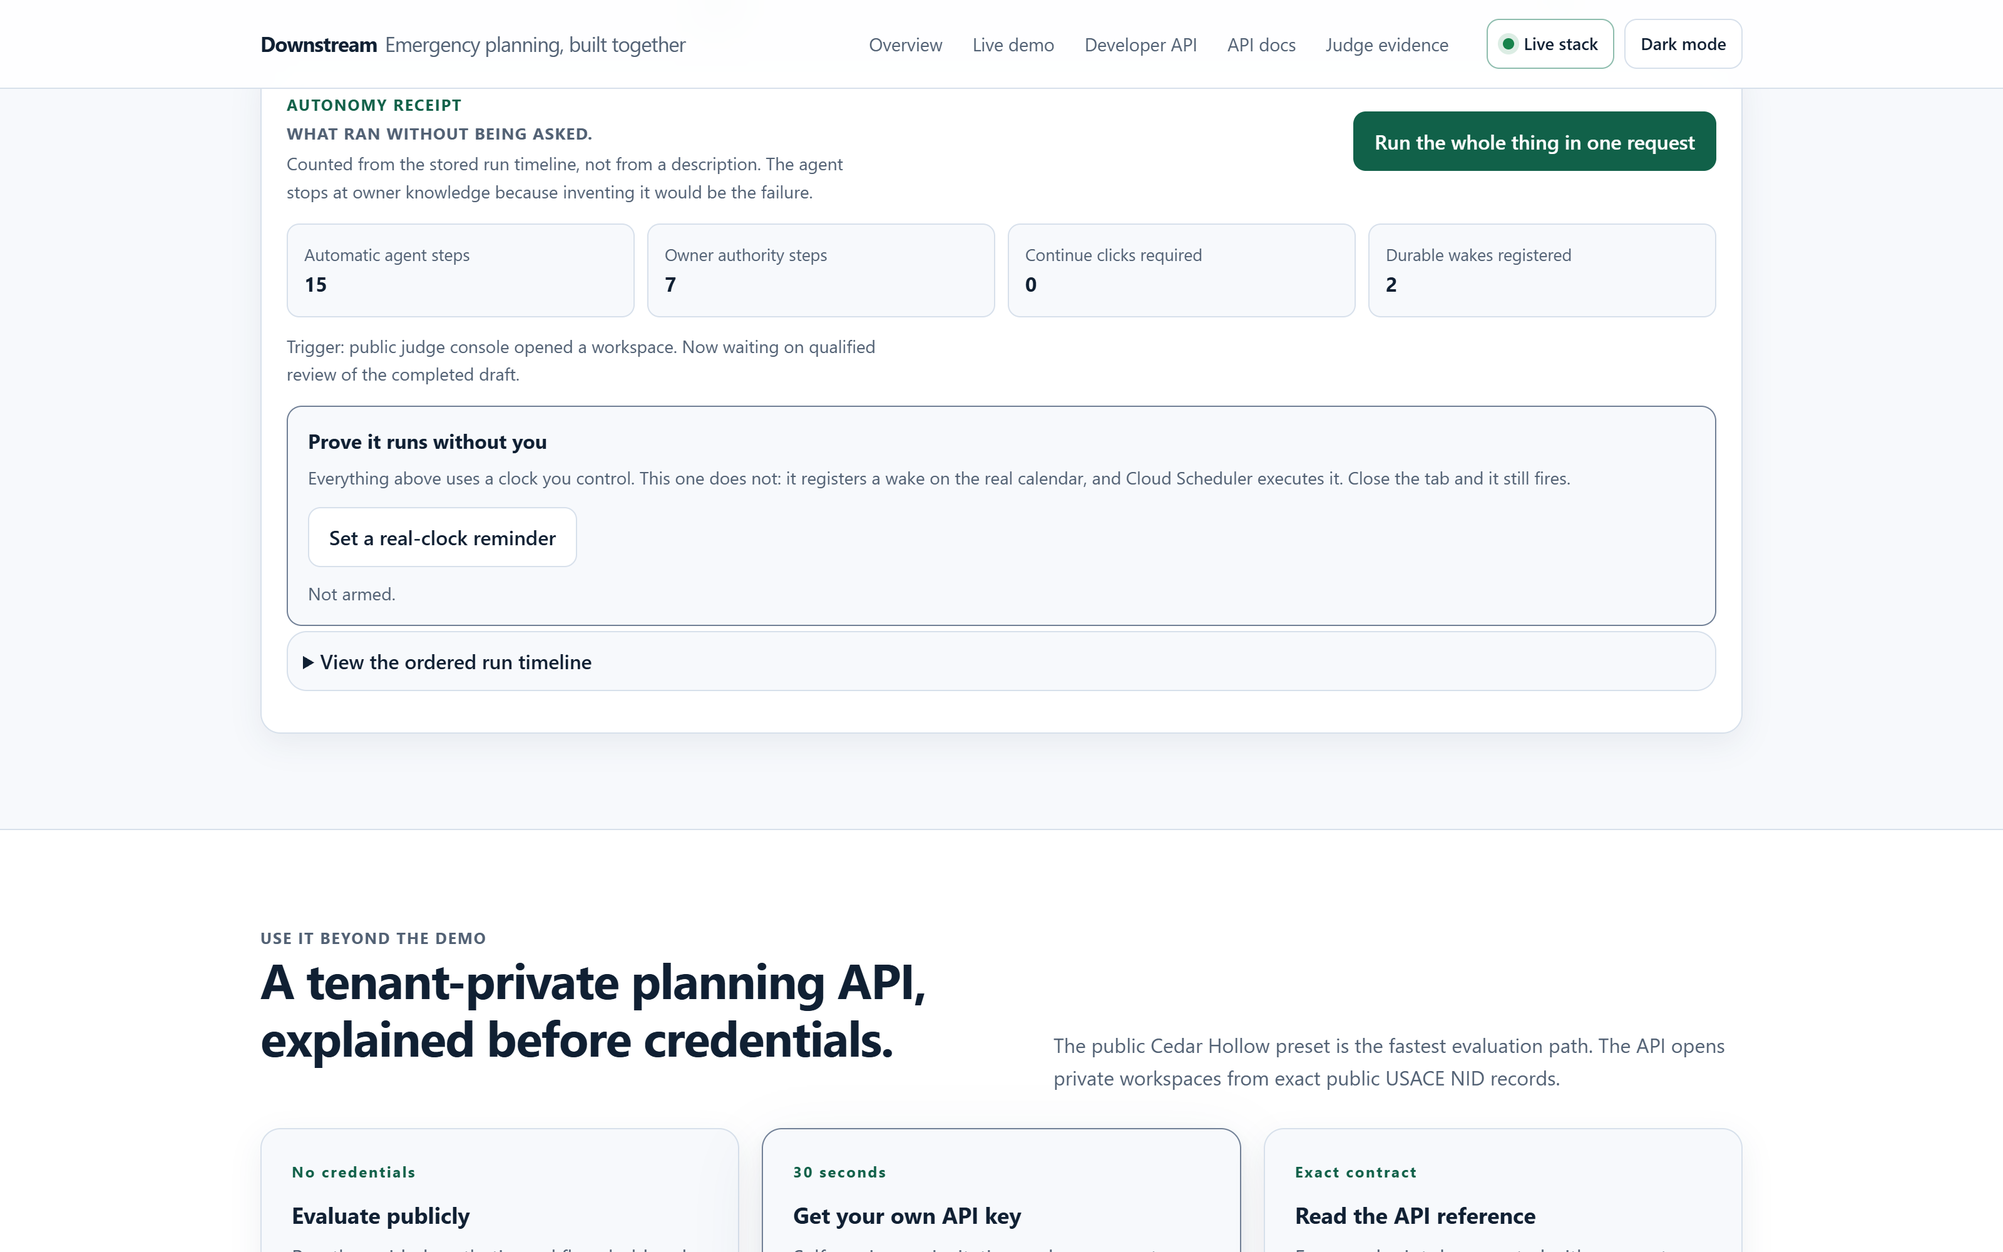
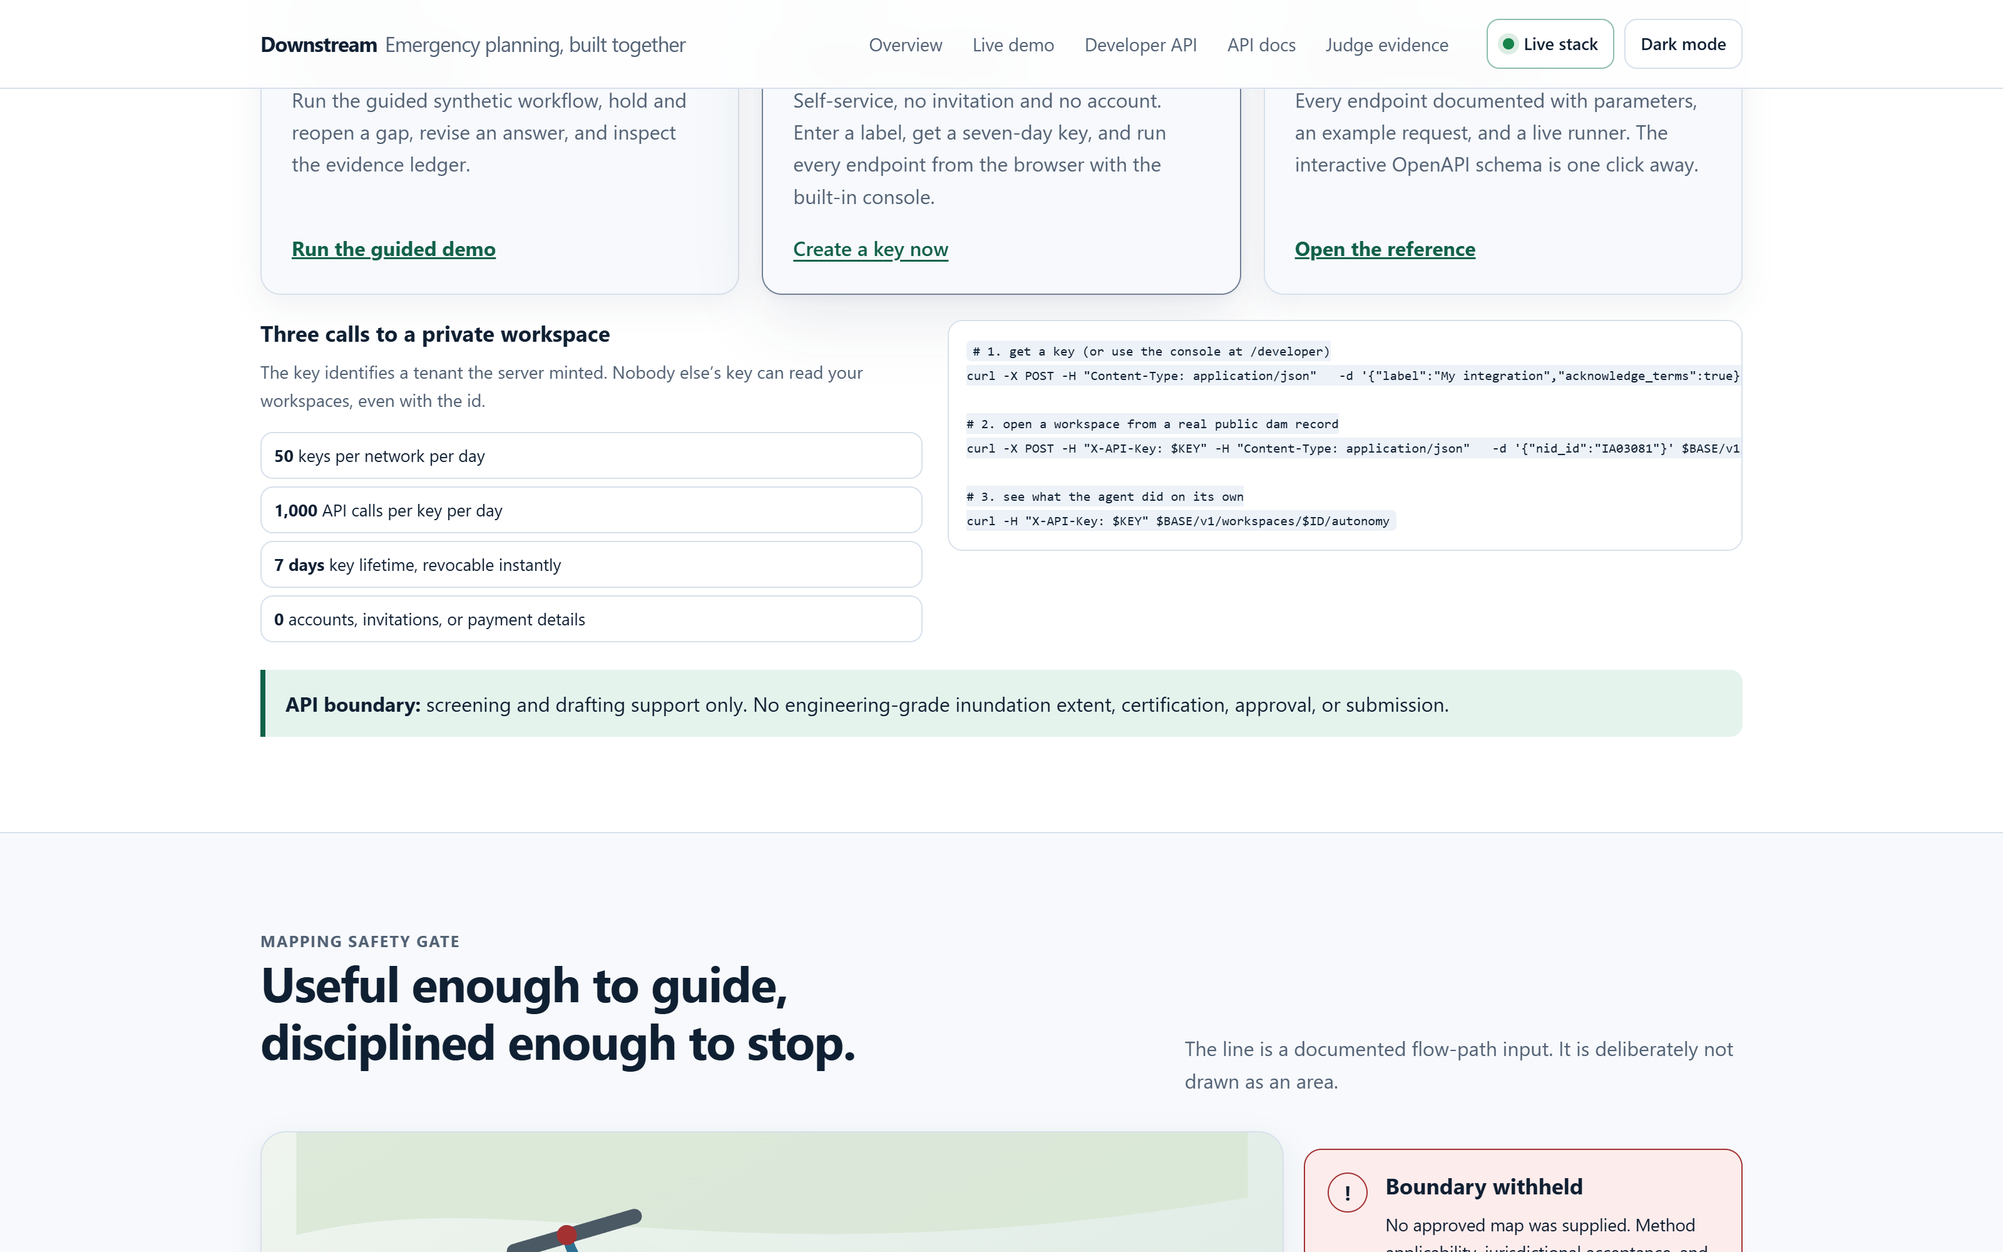
Stop showing a cold visitor six panels that report nothing
The console on first load was three columns of scaffolding and a seven-tile
profile strip and an autonomy receipt, and every one of them said some version
of "nothing yet": no session, sections appear as facts arrive, not learned yet,
0, 0, 0, 0. Six panels of furniture holding no information, and beneath them
two disabled buttons that looked like dead interface.

Worse, the strongest thing the product does was the third call to action and
the furthest down the page. A judge arriving at the URL cold -- which is how
they will arrive, not by following a script -- had to scroll past all of that
to find "run the whole thing in one request".

There is now one invitation that says what the run actually does, with that run
as the primary action, offered in the console header and in the card itself.
The scaffolding appears when there is something to put in it.

Includes a bug the screenshot caught and the check did not: `[hidden]` only
carries display:none from the user-agent stylesheet, so `.profile-grid {
display: grid }` beat it and the panel stayed visible while the DOM property
read true the whole time. Verifying the property rather than the rendering is
precisely how that survived, so the check now measures computed display and a
test pins the override.

diff --git a/app/web/downstream.html b/app/web/downstream.html
@@ -44,16 +44,23 @@
 
 
 
-    <section id="workspace"><div class="wrap"><div class="console-intro"><div><p class="eyebrow">Interactive judge preset</p><h2>Build the draft with Cedar Hollow.</h2><p>A synthetic dam keeps the workflow testable without making claims about a real owner.</p></div><div class="workspace-actions"><button class="btn-primary" data-action id="start-demo" type="button">Start clean preset</button><a class="btn" href="/?guided=1#workspace">Start guided judge tour</a></div></div>
-      <p class="demo-banner">Synthetic demonstration data. The public NID query below is live, but real records are never treated as evidence of noncompliance.</p><div id="app-status" class="app-status neutral" role="status" aria-live="polite" aria-atomic="true">Choose a clean workspace or the guided judge tour to begin.</div>
-      <div class="console-shell" style="margin-top:16px"><div class="partner-shell">
+    <section id="workspace"><div class="wrap"><div class="console-intro"><div><p class="eyebrow">Interactive judge preset</p><h2>Build the draft with Cedar Hollow.</h2><p>A synthetic dam keeps the workflow testable without making claims about a real owner.</p></div><div class="workspace-actions"><button class="btn-primary" data-action id="run-top" type="button">Run the whole thing in one request</button><button class="btn" data-action id="start-demo" type="button">Answer the questions myself</button><a class="btn" href="/?guided=1#workspace">Guided judge tour</a></div></div>
+      <p class="demo-banner">Synthetic demonstration data. The public NID query below is live, but real records are never treated as evidence of noncompliance.</p><div id="app-status" class="app-status neutral is-idle" role="status" aria-live="polite" aria-atomic="true"></div>
+      <div class="console-empty" id="console-empty">
+        <p class="eyebrow">Nothing has run yet</p>
+        <h3>One request does fifteen things.</h3>
+        <p>It resolves the dam record, reads the 1958 drawing with Gemini, checks every fact against a quote it can point to, derives the conflict between two sources, drafts the sections it has evidence for, refuses the map it cannot justify, and schedules its own follow-ups. Then it stops and asks you the six things it is not allowed to guess.</p>
+        <div class="btn-row"><button class="btn-primary" data-action id="run-empty" type="button">Run it</button><button class="btn" data-action id="start-empty" type="button">Or answer the questions yourself</button></div>
+      </div>
+
+      <div class="console-shell" id="console-shell" hidden style="margin-top:16px"><div class="partner-shell">
         <aside class="pane"><h3>Plan progress</h3><p class="small muted" id="progress-copy">Start the preset to create a durable workspace.</p><ol class="progress-list" id="progress-list"></ol><h3 class="subhead">Context meter</h3><div id="context-meter" class="muted small">No session yet.</div><div id="workspace-identity" class="workspace-identity" hidden><h3 class="subhead">Saved workspace</h3><code id="workspace-code"></code><p class="small muted">Restores this workspace after a refresh.</p><div class="workspace-link-row"><a id="resume-url" href="#workspace">Open resume link</a><button id="copy-resume" type="button">Copy</button></div></div></aside>
         <section class="pane" style="padding:0;border:0;box-shadow:none;background:transparent"><article class="question-card" id="question-card"><span class="eyebrow">Partner waiting</span><h3>Start a clean preset.</h3><p>I will resolve three drawing facts first, turn the source conflict into a targeted question, and ask only what the fixture cannot answer.</p></article><article class="revision-card" id="revision-card"><span class="eyebrow">Correction loop</span><h3>Your corrections stay attributable.</h3><p class="muted small">After the first answer, revise it here. Downstream keeps both versions and updates the draft.</p></article></section>
         <aside class="pane"><h3>Reviewable draft</h3><div class="plan-stack" id="plan-stack"><p class="muted small">Sections appear as owner facts arrive.</p></div><div class="btn-row"><button id="accept-plan" data-action type="button" disabled>Accept style</button><button id="less-detail" data-action type="button" disabled>Use concise summaries</button></div></aside>
       </div></div>
-      <div class="profile-grid" id="profile-grid" style="margin-top:14px"><div class="profile-item"><small>Reading level</small><b>Not learned yet</b></div><div class="profile-item"><small>Detail style</small><b>Not learned yet</b></div><div class="profile-item"><small>Vocabulary</small><b>No preferences yet</b></div><div class="profile-item"><small>Sessions remembered</small><b>0</b></div><div class="profile-item"><small>Feedback events</small><b>0</b></div><div class="profile-item"><small>Answer revisions</small><b>0</b></div><div class="profile-item"><small>Source conflicts surfaced</small><b>1</b></div></div>
+      <div class="profile-grid" id="profile-grid" hidden style="margin-top:14px"><div class="profile-item"><small>Reading level</small><b>Not learned yet</b></div><div class="profile-item"><small>Detail style</small><b>Not learned yet</b></div><div class="profile-item"><small>Vocabulary</small><b>No preferences yet</b></div><div class="profile-item"><small>Sessions remembered</small><b>0</b></div><div class="profile-item"><small>Feedback events</small><b>0</b></div><div class="profile-item"><small>Answer revisions</small><b>0</b></div><div class="profile-item"><small>Source conflicts surfaced</small><b>1</b></div></div>
 
-      <article class="pane autonomy-pane" id="autonomy-pane" style="margin-top:14px">
+      <article class="pane autonomy-pane" id="autonomy-pane" hidden style="margin-top:14px">
         <div class="autonomy-head">
           <div>
             <span class="eyebrow">Autonomy receipt</span>

diff --git a/app/web/downstream-judges-v2.html b/app/web/downstream-judges-v2.html
@@ -15,7 +15,7 @@
   <main id="main">
     <section class="judge-hero"><div class="wrap"><p class="eyebrow">Evaluation path</p><h1>An autonomous partner you can verify in one request.</h1><p class="lede">Press <b>Run the whole thing in one request</b> on the home page, or <code>POST /downstream/demo/run</code>. The agent opens a run, reads the drawing, grounds the facts, derives the source conflict, drafts every section it has evidence for, applies the mapping gate, schedules two durable wakes and fires them &mdash; then hands back a receipt counted from stored state. Typical result: <b>15 automatic steps, 0 continue clicks</b>.</p><div class="evaluator-actions"><a href="/">Run it in one request</a><a href="/?guided=1#workspace">Drive it by hand instead</a><a href="/evidence">Open evidence dashboard</a><a href="/downstream/proof">Open raw proof</a><a href="https://github.com/usv240/downstream">Inspect repository</a></div><ol class="judge-steps"><li><b>One request.</b> The whole workflow runs server-side and returns the autonomy receipt, the draft, the evidence ledger and the measured context.</li><li><b>Read the timeline.</b> Every step names the actor that performed it: agent, owner authority, or external event. The counts are derived from it, not asserted.</li><li><b>Check where it stopped.</b> It pauses only on owner knowledge, which is the one input it is not permitted to invent.</li><li><b>Watch it work unattended.</b> Durable wakes reopen held questions and follow up on a stalled draft. Cloud Scheduler calls <code>/internal/scan-due</code> every fifteen minutes.</li><li><b>Then drive it by hand.</b> Ask for simpler language, hold and reopen a gap, save a correction, and inspect both answer versions.</li><li><b>Confirm the boundary held.</b> No inundation extent, no certification, no submission &mdash; however complete the run.</li></ol></div></section>
 
-    <section><div class="wrap"><div class="judge-metrics"><div class="judge-metric"><b>92,606</b><span>USACE records measured through the public service</span></div><div class="judge-metric"><b>15</b><span>automatic agent steps per run, 0 continue clicks</span></div><div class="judge-metric"><b>348</b><span>standalone automated tests</span></div><div class="judge-metric"><b>63/63</b><span>executable end-to-end checks</span></div><div class="judge-metric"><b>2</b><span>durable wakes registered and fired per run</span></div><div class="judge-metric"><b>0</b><span>unvalidated boundaries generated</span></div></div>
+    <section><div class="wrap"><div class="judge-metrics"><div class="judge-metric"><b>92,606</b><span>USACE records measured through the public service</span></div><div class="judge-metric"><b>15</b><span>automatic agent steps per run, 0 continue clicks</span></div><div class="judge-metric"><b>352</b><span>standalone automated tests</span></div><div class="judge-metric"><b>63/63</b><span>executable end-to-end checks</span></div><div class="judge-metric"><b>2</b><span>durable wakes registered and fired per run</span></div><div class="judge-metric"><b>0</b><span>unvalidated boundaries generated</span></div></div>
       <div class="architecture-map"><div class="arch-node"><small>Public and synthetic inputs</small><strong>USACE NID, drawing facts, owner knowledge</strong><span>Every fact keeps its provenance, status, and conflict state.</span></div><div class="arch-arrow" aria-hidden="true">&rsaquo;</div><div class="arch-node accent"><small>Google Cloud agent loop</small><strong>Cloud Run, Firestore, Cloud Scheduler, Vertex AI</strong><span>Resolve, ground, decide, compose, schedule, wake, verify.</span></div><div class="arch-arrow" aria-hidden="true">&rsaquo;</div><div class="arch-node"><small>Reviewable result</small><strong>Cited EAP draft, evidence ledger, safe stop</strong><span>Never certified, submitted, or represented as engineering analysis.</span></div></div>
     </div></section>
 

diff --git a/app/web/downstream-v2.js b/app/web/downstream-v2.js
@@ -44,7 +44,10 @@ function text(value) {
 
 function setStatus(message, tone = "neutral") {
   const box = $("#app-status");
-  box.className = "app-status " + tone;
+  // Collapsed until there is something to report. It stays in the DOM so the live region is
+  // present before it is updated, which is what screen readers need, but an empty status bar
+  // repeating the invitation directly beneath it is just another panel saying nothing yet.
+  box.className = "app-status " + tone + (message ? "" : " is-idle");
   box.textContent = message;
 }
 
@@ -365,7 +368,20 @@ function renderAutonomy(workspace) {
     .join("");
 }
 
+function revealConsole() {
+  // The scaffolding is evidence of a run. Before there is one it was six panels each saying
+  // "nothing yet", which is a lot of furniture for no information and buried the one action
+  // worth taking.
+  const empty = $("#console-empty");
+  if (empty) empty.hidden = true;
+  ["#console-shell", "#profile-grid", "#autonomy-pane"].forEach((selector) => {
+    const node = $(selector);
+    if (node) node.hidden = false;
+  });
+}
+
 function render(workspace, options = {}) {
+  revealConsole();
   state.workspace = workspace;
   syncWorkspaceIdentity(workspace);
   renderProgress(workspace);
@@ -609,6 +625,10 @@ async function armLiveProof() {
 $("#arm-live-proof").addEventListener("click", armLiveProof);
 $("#start-demo").addEventListener("click", start);
 $("#run-whole-thing").addEventListener("click", runWholeThing);
+// The same two actions, offered where a cold visitor actually looks: the console header and the
+// empty state itself, rather than only in a panel below the fold.
+["#run-top", "#run-empty"].forEach((s) => $(s)?.addEventListener("click", runWholeThing));
+$("#start-empty")?.addEventListener("click", start);
 $("#load-nid").addEventListener("click", loadNid);
 $("#accept-plan").addEventListener("click", () => feedback("accept"));
 $("#less-detail").addEventListener("click", () => feedback("not_right", "Too much detail"));
@@ -630,5 +650,5 @@ if (requestedWorkspace) {
 } else if (state.guided) {
   start();
 } else {
-  setStatus("Choose a clean workspace or the guided judge tour to begin.", "neutral");
+  setStatus("");
 }

diff --git a/app/web/downstream-v2.css b/app/web/downstream-v2.css
@@ -513,3 +513,27 @@
 #live-proof-status { margin: 10px 0 0; }
 #live-proof-status.armed { color: var(--warn); }
 #live-proof-status.fired { color: var(--ok); font-weight: 600; }
+
+/* ---------------------------------------------------------------- console empty state
+   Six panels each reporting that nothing had happened yet is a lot of furniture for no
+   information, and it pushed the one action worth taking below the fold. One invitation
+   instead, and the scaffolding appears when there is something to put in it. */
+.console-empty {
+  margin-top: 16px; padding: 30px 32px;
+  border: 1px solid var(--border-strong); border-radius: var(--radius);
+  background: var(--surface); box-shadow: var(--shadow-soft);
+}
+.console-empty h3 { font-size: 1.5rem; margin: 4px 0 10px; letter-spacing: -.02em; }
+.console-empty p { max-width: 76ch; }
+.console-empty .btn-row { margin-bottom: 0; }
+@media (max-width: 640px) { .console-empty { padding: 22px 20px; } }
+
+/* The `hidden` attribute only carries `display: none` from the user-agent stylesheet, so any
+   author rule that sets display -- `.profile-grid { display: grid }`, `.pane { display: block }`
+   -- silently wins and the element stays on screen. The DOM property reads true the whole time,
+   which is exactly how this got missed. */
+[hidden] { display: none !important; }
+
+/* An empty status bar restating the invitation below it is one more panel reporting nothing.
+   Collapsed rather than removed, so the live region exists before it is first updated. */
+.app-status.is-idle { display: none; }

diff --git a/app/tests/test_ui_adaptation.py b/app/tests/test_ui_adaptation.py
@@ -183,3 +183,38 @@ def test_the_correction_example_carries_an_identifier_so_the_boundary_is_visible
     assert "PHONE" in shielded["shapes"]
     assert "406-555-0142" not in shielded["text"]
     assert "PHONE_1" in shielded["text"]
+
+
+def test_the_hidden_attribute_actually_hides():
+    """`[hidden]` only carries display:none from the user-agent sheet, so `.profile-grid`
+    setting `display: grid` beat it and the panel stayed on screen while the DOM property read
+    true. Checking the property rather than the rendering is how that survived."""
+    css = (WEB / "downstream-v2.css").read_text(encoding="utf-8")
+    assert "[hidden] { display: none !important; }" in css
+
+
+def test_a_cold_visitor_is_not_shown_six_empty_panels():
+    """The scaffolding is evidence of a run. Before there is one it reported "nothing yet" in six
+    places and pushed the one action worth taking below the fold."""
+    html = (WEB / "downstream.html").read_text(encoding="utf-8")
+    for hidden in ('id="console-shell" hidden', 'id="profile-grid" hidden', 'id="autonomy-pane" hidden'):
+        assert hidden in html, hidden
+    assert 'id="console-empty"' in html
+
+
+def test_the_strongest_action_is_the_first_one_offered():
+    html = (WEB / "downstream.html").read_text(encoding="utf-8")
+    actions = html[html.index('class="workspace-actions"'):]
+    actions = actions[: actions.index("</div>")]
+    assert "Run the whole thing in one request" in actions
+    assert actions.index("Run the whole thing") < actions.index("Answer the questions myself")
+    assert 'class="btn-primary"' in actions.split("Run the whole thing")[0][-120:]
+
+
+def test_every_entry_point_into_a_run_reveals_the_console():
+    js = (WEB / "downstream-v2.js").read_text(encoding="utf-8")
+    assert "function revealConsole()" in js
+    # render() is the single funnel every path goes through.
+    assert js.index("revealConsole();") > js.index("function render(workspace")
+    for control in ("#run-top", "#run-empty", "#start-empty"):
+        assert control in js, control

diff --git a/docs/gallery/README.md b/docs/gallery/README.md
@@ -11,6 +11,7 @@ mock-up.
 | `03-autonomy-timeline.png` | The stored run timeline the receipt is counted from, each step attributed |
 | `04-judge-evidence.png` | The judge page: measured gates and the claim boundaries |
 | `05-developer-console.png` | Self-service key issuance and the in-browser API console |
+| `06-console-empty.png` | What a cold visitor sees: one invitation, not six empty panels |
 
 The rules say judges may choose to score on the text description, images and video alone. These
 exist so that a repository nobody runs still shows the product working.

diff --git a/README.md b/README.md
@@ -211,7 +211,7 @@ The last one runs against a URL, so it works equally against the deployed servic
 python scripts/downstream_demo_flow.py --url https://downstream-109051079423.us-central1.run.app
 ```
 
-Current verified result: **348 tests**, accessibility green in both themes, and **63/63** demo
+Current verified result: **352 tests**, accessibility green in both themes, and **63/63** demo
 checks. Full evidence, including what is deliberately switched off in the deployed configuration,
 is in [VALIDATION_EVIDENCE.md](VALIDATION_EVIDENCE.md).
 

diff --git a/VALIDATION_EVIDENCE.md b/VALIDATION_EVIDENCE.md
@@ -7,7 +7,7 @@ partly off in the deployed configuration, that is stated rather than rounded up.
 
 | Check | Command | Result |
 |---|---|---|
-| Test suite | `python -m pytest -q` | 348 passed |
+| Test suite | `python -m pytest -q` | 352 passed |
 | Lint | `python -m ruff check .` | clean |
 | Accessibility, both themes | `python scripts/check_a11y.py` | all checks passed |
 | Executable judge flow | `python scripts/downstream_demo_flow.py --url <base>` | 63/63 |
